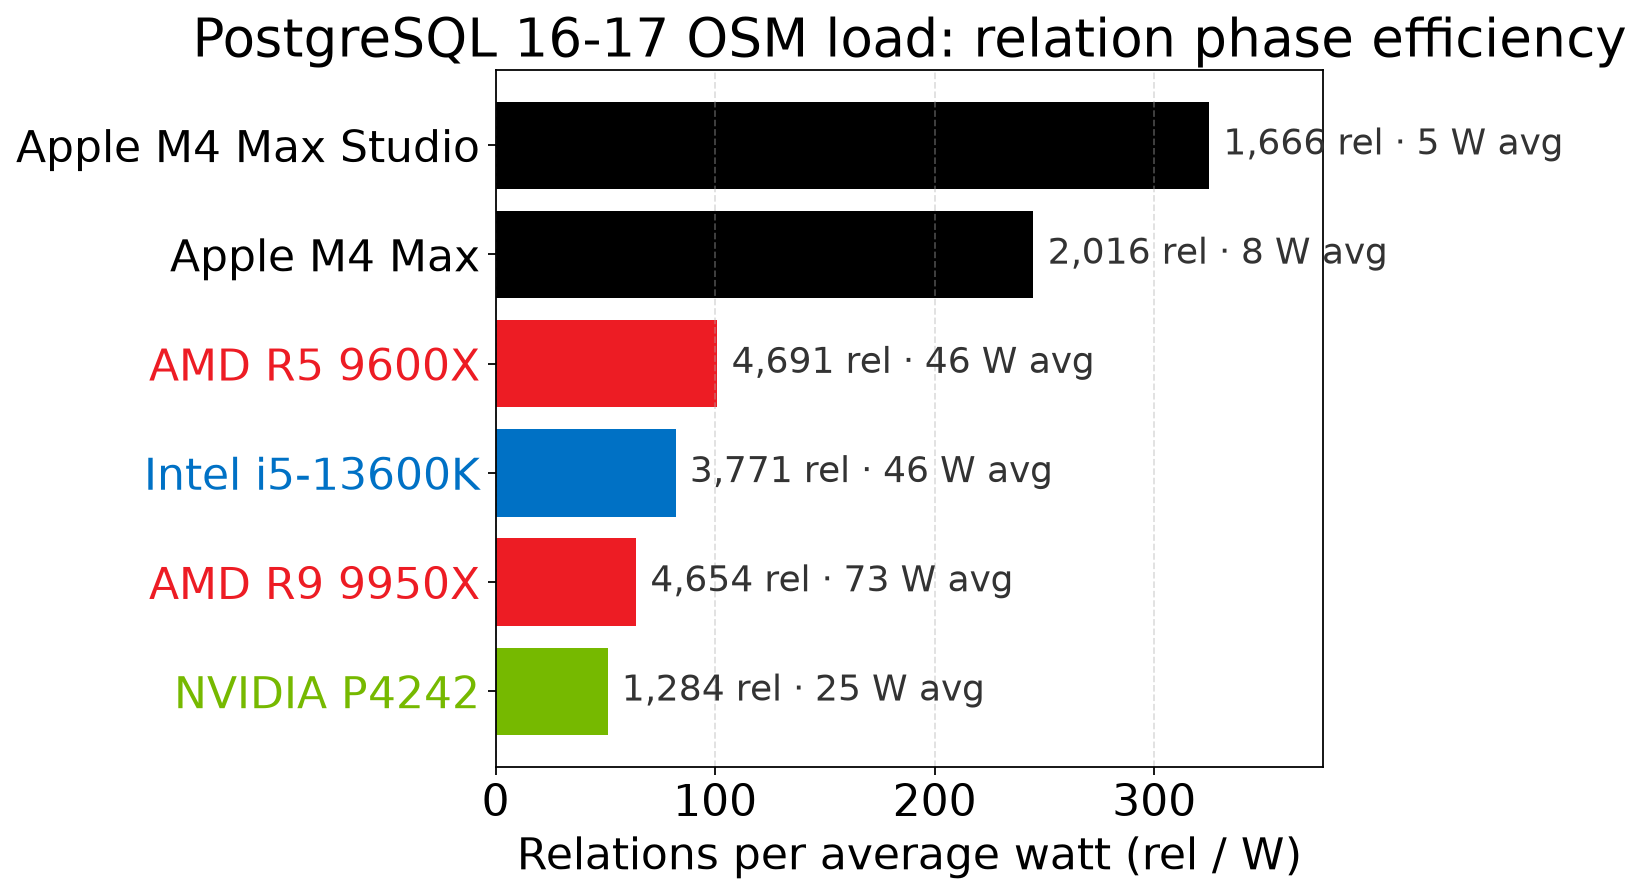
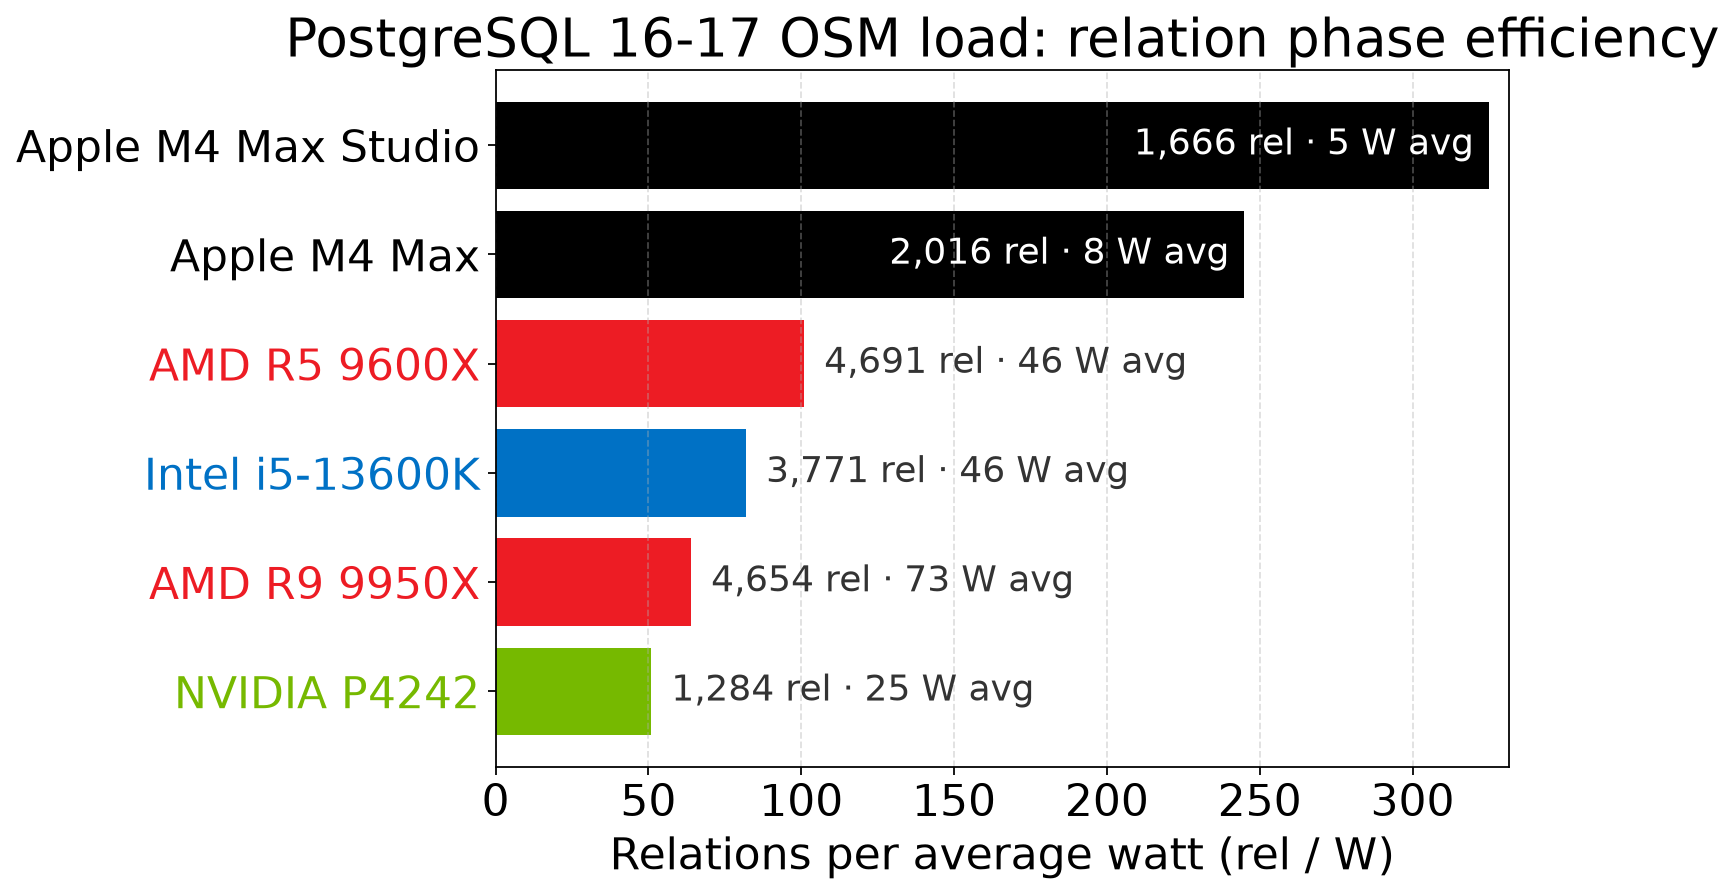
Drop redundant OSM power chart and improve relation bar labels.
Retire the combined throughput PNG from the power page while keeping its
generator opt-in; place relation bar value labels inside long bars with
contrast text and document scatter and bar label rules for agents.

diff --git a/reports/osm-relation-power.py b/reports/osm-relation-power.py
@@ -34,6 +34,8 @@ RELATION_HEADING = "## Relation power efficiency"
 
 DEFAULT_POINT_COLOR = "#333333"
 SCATTER_MARKER_SIZE = 80
+BAR_LABEL_INSIDE_COLOR = "#ffffff"
+BAR_LABEL_OUTSIDE_COLOR = "#333333"
 
 
 def _marker_x_gap(gap: float = 12) -> float:
@@ -83,6 +85,29 @@ def plain_axis(ax, y: bool = True, x: bool = True) -> None:
         ax.xaxis.set_major_formatter(formatter)
 
 
+def _contrast_text_color(hex_color: str) -> str:
+    color = hex_color.lstrip("#")
+    if len(color) != 6:
+        return BAR_LABEL_INSIDE_COLOR
+    r, g, b = (int(color[i : i + 2], 16) / 255 for i in (0, 2, 4))
+    luminance = 0.2126 * r + 0.7152 * g + 0.0722 * b
+    return BAR_LABEL_INSIDE_COLOR if luminance < 0.55 else BAR_LABEL_OUTSIDE_COLOR
+
+
+def _text_width_data(ax, text: str, fontsize: float, renderer) -> float:
+    probe = ax.text(0, 0, text, fontsize=fontsize, alpha=0.0)
+    ax.figure.canvas.draw()
+    bbox = probe.get_window_extent(renderer)
+    probe.remove()
+    x0, _ = ax.transData.inverted().transform((bbox.x0, bbox.y0))
+    x1, _ = ax.transData.inverted().transform((bbox.x1, bbox.y1))
+    return abs(x1 - x0)
+
+
+def _bar_value_label(row: pd.Series) -> str:
+    return f"{int(row['rel']):,} rel · {int(row['avg_watts'])} W avg"
+
+
 def plot_relation_efficiency(df: pd.DataFrame, output: Path, show: bool = False) -> None:
     plot_df = df.sort_values("rel_per_watt", ascending=True).reset_index(drop=True)
     y = range(len(plot_df))
@@ -99,19 +124,46 @@ def plot_relation_efficiency(df: pd.DataFrame, output: Path, show: bool = False)
     ax.set_title("PostgreSQL 16-17 OSM load: relation phase efficiency")
     ax.grid(True, axis="x", linestyle="--", alpha=0.4)
 
+    fig.canvas.draw()
+    renderer = fig.canvas.get_renderer()
     xmax = plot_df["rel_per_watt"].max()
     pad = max(xmax * 0.02, 3)
-    for i, row in plot_df.iterrows():
-        ax.text(
-            row["rel_per_watt"] + pad,
-            i,
-            f"{int(row['rel']):,} rel · {int(row['avg_watts'])} W avg",
-            va="center",
-            fontsize=BAR_LABEL_FONTSIZE,
-            color="#333333",
-        )
+    inner_pad = max(xmax * 0.015, 2)
+    max_x = xmax
 
-    ax.set_xlim(0, xmax + pad * 8)
+    for i, (_, row) in enumerate(plot_df.iterrows()):
+        bar_width = row["rel_per_watt"]
+        label = _bar_value_label(row)
+        text_width = _text_width_data(ax, label, BAR_LABEL_FONTSIZE, renderer)
+        bar_color = colors[i]
+
+        if text_width + inner_pad * 2 <= bar_width:
+            ax.text(
+                bar_width - inner_pad,
+                i,
+                label,
+                va="center",
+                ha="right",
+                fontsize=BAR_LABEL_FONTSIZE,
+                color=_contrast_text_color(bar_color),
+                clip_on=True,
+            )
+            max_x = max(max_x, bar_width)
+        else:
+            x = bar_width + pad
+            ax.text(
+                x,
+                i,
+                label,
+                va="center",
+                ha="left",
+                fontsize=BAR_LABEL_FONTSIZE,
+                color=BAR_LABEL_OUTSIDE_COLOR,
+                clip_on=True,
+            )
+            max_x = max(max_x, x + text_width)
+
+    ax.set_xlim(0, max_x + pad)
     plain_axis(ax, y=False)
 
     fig.tight_layout()

diff --git a/reports/osm-power.py b/reports/osm-power.py
@@ -2,11 +2,12 @@
 """
 Graph OSM power study results from the PG18 static snapshot.
 
-Generates:
-  - Throughput (total and index) vs maximum package watts
+Generates by default:
   - Total throughput vs maximum package watts
   - Index throughput vs maximum package watts
   - Throughput per watt (efficiency) by CPU
+
+Optional (--throughput-output): combined total+index chart with vertical bars.
 
 Usage:
   python3 reports/osm-power.py
@@ -32,7 +33,6 @@ from pg18_style import LEGEND_MARKER_SIZE, POINT_LABEL_FONTSIZE, use_pg18_style
 
 REPO_ROOT = Path(__file__).resolve().parents[1]
 DEFAULT_SNAPSHOT = REPO_ROOT / "docs/results-summary/pg18/osm-power.md"
-DEFAULT_THROUGHPUT = REPO_ROOT / "docs/images/pg18-osm-power.png"
 DEFAULT_TOTAL = REPO_ROOT / "docs/images/pg18-osm-power-total.png"
 DEFAULT_INDEX = REPO_ROOT / "docs/images/pg18-osm-power-index.png"
 DEFAULT_EFFICIENCY = REPO_ROOT / "docs/images/pg18-osm-power-efficiency.png"
@@ -72,7 +72,12 @@ def row_color(row: pd.Series) -> str:
 def parse_args() -> argparse.Namespace:
     parser = argparse.ArgumentParser(description="Plot PG18 OSM power study")
     parser.add_argument("--snapshot", type=Path, default=DEFAULT_SNAPSHOT)
-    parser.add_argument("--throughput-output", type=Path, default=DEFAULT_THROUGHPUT)
+    parser.add_argument(
+        "--throughput-output",
+        type=Path,
+        default=None,
+        help="Optional combined total+index chart, e.g. docs/images/pg18-osm-power.png",
+    )
     parser.add_argument("--total-output", type=Path, default=DEFAULT_TOTAL)
     parser.add_argument("--index-output", type=Path, default=DEFAULT_INDEX)
     parser.add_argument("--efficiency-output", type=Path, default=DEFAULT_EFFICIENCY)
@@ -272,7 +277,8 @@ def main() -> int:
     if not rows:
         raise SystemExit(f"No table found in {args.snapshot}")
     df = prepare_power_df(rows)
-    plot_throughput_vs_power(df, args.throughput_output, show=args.show)
+    if args.throughput_output is not None:
+        plot_throughput_vs_power(df, args.throughput_output, show=args.show)
     plot_single_throughput_vs_power(
         df,
         args.total_output,

diff --git a/.cursor/skills/scatter-label-layout/SKILL.md b/.cursor/skills/scatter-label-layout/SKILL.md
@@ -1,13 +1,18 @@
 ---
 name: scatter-label-layout
 description: >-
-  Tune Matplotlib scatter point labels in pgbent PG18 charts: overlap avoidance,
-  per-CPU overrides, axis text, and PNG regeneration. Use when fixing crowded
-  scatter labels, label-dot alignment, pg18-osm-power-*.png,
+  Tune Matplotlib labels on pgbent PG18 charts: scatter point placement,
+  horizontal bar value labels (inside bar with contrast color when they fit),
+  overlap avoidance, and PNG regeneration. Use when fixing crowded scatter or
+  bar labels, pg18-osm-power-*.png, pg18-osm-relation-power.png,
   pg18-osm-relation-scatter.png, reports/label_layout.py, or place_point_labels.
 ---
 
-# Scatter label layout (pgbent)
+# Graph label layout (pgbent)
+
+Scatter point labels and horizontal bar value labels share one goal: **keep
+readable text inside the plot grid**, associated clearly with its mark, without
+crowding neighbors.
 
 ## Goal
 
@@ -31,8 +36,9 @@ Each scatter marker gets **one clearly associated label**:
 | Overlap-aware placement | `reports/label_layout.py` — `place_point_labels()`, `place_label_at_grid_bottom()` |
 | Override tuple | `LabelOffset(dx, dy, ha=..., va=...)` in **offset points** from the marker |
 | Marker gap helper | `_marker_x_gap(gap=12)` — `sqrt(marker_size/π) + gap` |
-| Font/style | `reports/pg18_style.py` — call `use_pg18_style()`; use `POINT_LABEL_FONTSIZE` |
-| Reference charts | `reports/osm-power.py`, `reports/osm-relation-power.py` |
+| Font/style | `reports/pg18_style.py` — call `use_pg18_style()`; use `POINT_LABEL_FONTSIZE`, `BAR_LABEL_FONTSIZE` |
+| Reference scatter charts | `reports/osm-power.py`, `reports/osm-relation-power.py` (scatter) |
+| Reference bar chart | `reports/osm-relation-power.py` — `plot_relation_efficiency()` |
 
 ## Workflow
 
@@ -123,3 +129,41 @@ Copy patterns from those dicts before inventing new layout logic.
 - [ ] Horizontal placement matches user-approved side before vertical fine-tuning.
 - [ ] PNG under `docs/images/` regenerated and matches the script output.
 - [ ] Residual overlap warnings understood (minor point overlap may remain; text overlap should not).
+
+## Horizontal bar value labels
+
+Used on charts like `pg18-osm-relation-power.png` where each bar needs a
+descriptive value string (e.g. `1,666 rel · 5 W avg`).
+
+### Rule: inside when it fits, outside when it does not
+
+1. After drawing bars, measure each label’s **text width in data coordinates**
+   (probe with `alpha=0.0`, not `visible=False` — invisible text returns zero width).
+2. Compare to **bar width** (`rel_per_watt` or equivalent x value).
+3. **Fits** (`text_width + 2 * inner_pad <= bar_width`):
+   - Place **inside the bar**, `ha="right"`, x = `bar_width - inner_pad`.
+   - Set text color with **`_contrast_text_color(bar_color)`** (white on dark bars).
+   - Enable `clip_on=True`.
+4. **Does not fit**:
+   - Place **outside to the right**, `ha="left"`, x = `bar_width + pad`.
+   - Use a neutral outside color (e.g. `#333333`).
+5. Set **`xlim` from actual label extents** (`max_x + pad`), not a fixed multiple of
+   `xmax`. Outside labels on short bars must not drive text off the right edge.
+
+### Why this works on PG18 relation power
+
+The **longest bars** (highest rel/W — typically Apple Silicon) extend farthest
+right and are **always wide enough** to hold the full value string inside. Those
+are exactly the bars that previously pushed outside labels past the plot edge.
+Shorter bars (AMD/Intel/NVIDIA) keep outside labels because the string is wider
+than the bar — that is expected.
+
+Reference implementation: `_text_width_data()`, `_contrast_text_color()`, and
+the label loop in `plot_relation_efficiency()` in `reports/osm-relation-power.py`.
+
+### Bar chart checklist
+
+- [ ] Longest bars use inverted/contrast text inside the bar.
+- [ ] Short bars keep outside labels; none overlap the y-axis category text.
+- [ ] `xlim` fits all outside labels without extra dead space from a blind `xmax * N`.
+- [ ] Text width probe uses `alpha=0.0` so fit detection is reliable.

diff --git a/AGENTS.md b/AGENTS.md
@@ -42,7 +42,22 @@ Streamlit explorer: `explorer/submission-explore.py` (`st.connection` example).
 | Programmatic DB access | `explorer/submission-explore.py` |
 | Per-run metric graphs | `metview.py`, [docs/plans/metview.md](docs/plans/metview.md) |
 | Plotting migration | [docs/plans/plotting.md](docs/plans/plotting.md) |
-| Scatter label tuning | [.cursor/skills/scatter-label-layout/SKILL.md](.cursor/skills/scatter-label-layout/SKILL.md), `reports/label_layout.py` |
+| Graph label layout | [.cursor/skills/scatter-label-layout/SKILL.md](.cursor/skills/scatter-label-layout/SKILL.md) — scatter points (`reports/label_layout.py`) and horizontal bar value labels (`reports/osm-relation-power.py`) |
+
+## PG18 graph labels
+
+When tuning Matplotlib snapshot graphs, read
+[scatter-label-layout/SKILL.md](.cursor/skills/scatter-label-layout/SKILL.md).
+
+**Scatter charts** — one label per dot, inside the plot grid; use
+`place_point_labels()` plus per-CPU overrides for crowded markers.
+
+**Horizontal bar value labels** — measure whether the descriptive string fits
+inside the bar. Long bars (the ones that extend farthest right) are usually
+wide enough for **inside placement with contrast-colored text** (white on dark
+bars). Short bars keep **outside-right** labels; set `xlim` from measured label
+width so nothing leaves the plot area. See `plot_relation_efficiency()` in
+`reports/osm-relation-power.py`.
 
 ## Active plans
 

diff --git a/docs/results-summary/pg18/osm-power.md b/docs/results-summary/pg18/osm-power.md
@@ -10,13 +10,9 @@ nav_order: 1
 
 OSM load throughput vs package power draw.
 
-![OSM throughput vs maximum package power]({{ '/images/pg18-osm-power.png' | relative_url }})
-
-Each CPU is positioned by **maximum package watts** during the load. Vertical bars connect index and total throughput at the same power envelope. Desktop AMD (**R9 9950X**, **R5 9600X**) leads on raw **kNodes/s**; **NVIDIA Spark (P4242)** sits mid-chart at **425** kNodes/s and **64 W** peak; **Apple M4 Max** reaches **463** kNodes/s at only **23 W**.
-
 ![OSM total throughput vs maximum package power]({{ '/images/pg18-osm-power-total.png' | relative_url }})
 
-Total planet load throughput only—**R9 9950X** peaks at **758** kNodes/s at **167 W**; **Apple M4 Max Studio** reaches **450** kNodes/s at **25 W**.
+Each CPU is positioned by **maximum package watts** during the load. Desktop AMD (**R9 9950X**, **R5 9600X**) leads on raw **kNodes/s**; **NVIDIA Spark (P4242)** sits mid-chart at **425** kNodes/s and **64 W** peak; **Apple M4 Max** reaches **463** kNodes/s at only **23 W**. **R9 9950X** peaks at **758** kNodes/s total at **167 W**; **Apple M4 Max Studio** reaches **450** kNodes/s at **25 W**.
 
 ![OSM index throughput vs maximum package power]({{ '/images/pg18-osm-power-index.png' | relative_url }})
 
